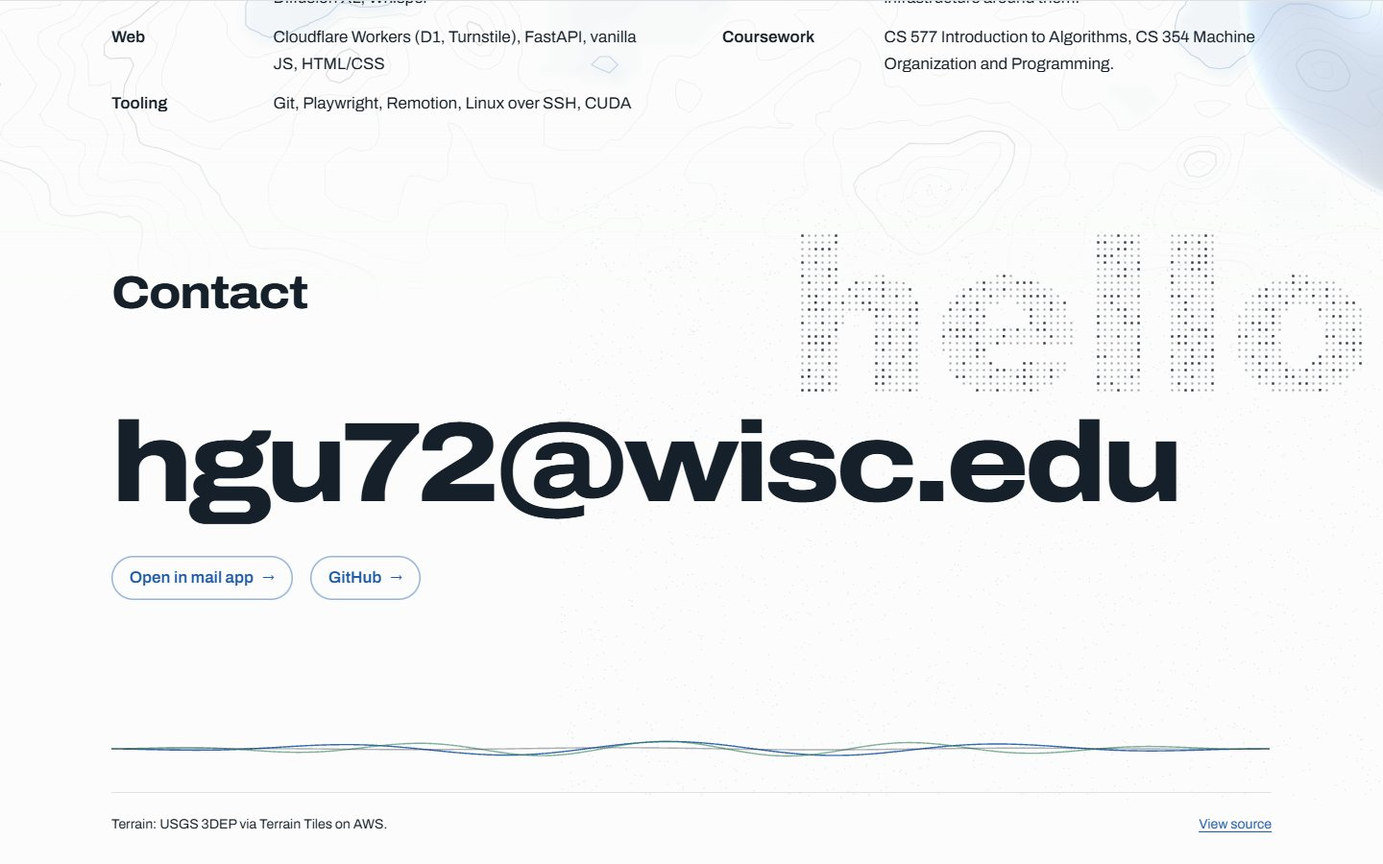
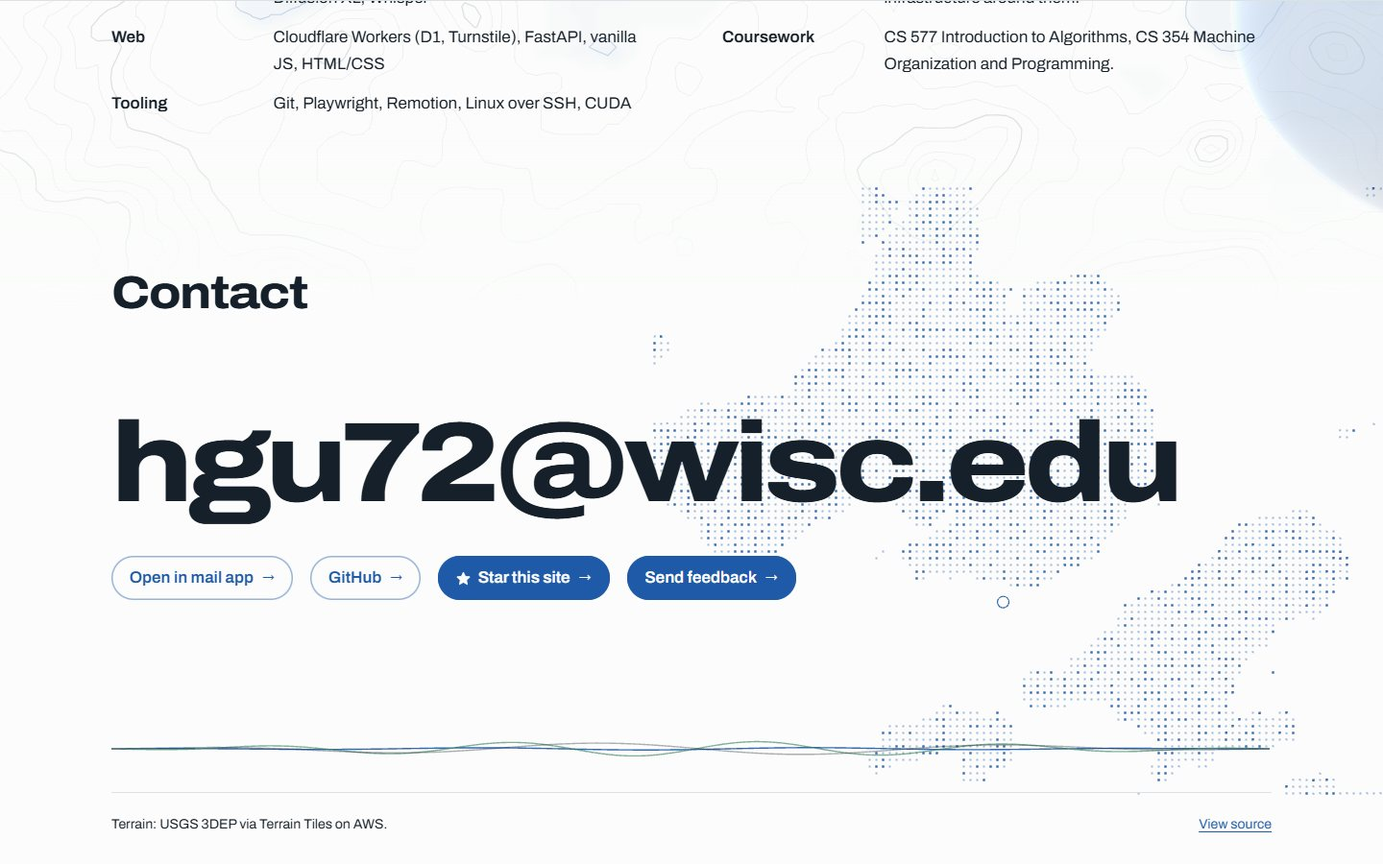
Toolbox section under the hero with Tools nav pill and hero button; filled Star and Feedback asks in Contact; build.py generates the cards

diff --git a/index.html b/index.html
@@ -71,7 +71,9 @@ a:hover{text-decoration-thickness:2px}
 .nav{display:flex; gap:24px; margin:0 0 0 auto; padding:0; list-style:none; font-size:.95rem; font-weight:500}
 .nav a{color:var(--muted); text-decoration:none; padding:6px 0; background:linear-gradient(currentColor,currentColor) left bottom/0 1.5px no-repeat; transition:color .2s, background-size .35s var(--out)}
 .nav a:hover,.nav a[aria-current="true"]{color:var(--ink); background-size:100% 1.5px}
-@media (max-width:640px){ .nav{display:none} .tools{margin-left:auto} }
+.nav li a.go{padding:7px 16px; border-radius:999px; background:var(--accent); color:var(--paper); font-weight:700}
+.nav li a.go:hover,.nav li a.go[aria-current="true"]{background:var(--accent); color:var(--paper); filter:brightness(1.1)}
+@media (max-width:640px){ .nav{margin-left:auto} .nav li:not(.gl){display:none} }
 .tog{display:grid; place-items:center; width:36px; height:36px; border:1px solid var(--rule); border-radius:50%; background:none; color:var(--ink); cursor:pointer; transition:transform .15s var(--out), border-color .2s}
 .tog:hover{border-color:var(--faint)}
 .tog:active{transform:scale(.94)}
@@ -100,6 +102,12 @@ h1{margin:0; font-size:clamp(5rem,17vw,15.5rem); line-height:.8; font-weight:800
 .who{margin:18px 0 0; color:var(--muted); font-size:1.02rem}
 .avail{display:flex; align-items:flex-start; gap:12px; margin:10px 0 0; font-weight:560}
 .avail::before{content:""; flex:none; margin-top:.58em; width:8px; height:8px; border-radius:50%; background:var(--signal); box-shadow:0 0 0 4px color-mix(in srgb, var(--signal) 22%, transparent)}
+.toolgo{margin:26px 0 0}
+.toolgo a{display:inline-flex; align-items:center; gap:.65em; padding:.8em 1.5em; border-radius:999px; background:var(--accent); color:var(--paper); font-weight:700; font-size:1.05rem; text-decoration:none; box-shadow:0 10px 28px -14px rgba(var(--water),.8); transition:transform .25s var(--out), filter .2s}
+.toolgo a::after{content:"\2193"; transition:transform .45s var(--out)}
+.toolgo a:hover{filter:brightness(1.1)}
+.toolgo a:hover::after{transform:translateY(.25em)}
+.toolgo a:active{transform:scale(.97)}
 
 .legend{position:relative; display:flex; flex-wrap:wrap; align-items:flex-end; gap:12px 36px; margin-top:clamp(40px,8vh,88px); padding:14px 0 18px; border-top:1px solid var(--rule); font-size:.84rem; color:var(--muted); font-variant-numeric:tabular-nums}
 .scale{display:flex; flex-direction:column; gap:5px}
@@ -137,6 +145,32 @@ h2{margin:0; font-size:clamp(1.9rem,3.6vw,3rem); line-height:1.02; font-weight:7
   .index a{grid-template-columns:1fr auto}
   .index .ds{grid-column:1/-1; grid-row:2}
   .index .kd{grid-column:2; grid-row:1}
+}
+/* Toolbox: the live web tools straight under the hero (docs/work/*.json with "tool": n) */
+section.tools{padding-top:clamp(56px,8vw,104px)}
+.tbx{margin:0; padding:0; list-style:none; display:grid; grid-template-columns:repeat(auto-fit,minmax(min(100%,224px),1fr)); gap:clamp(14px,1.6vw,22px)}
+.tbx li{display:flex; flex-direction:column; min-width:0; border:1px solid var(--rule); border-radius:16px; overflow:hidden; background:var(--paper); transition:transform .35s var(--out), box-shadow .35s var(--out), border-color .2s}
+@media (hover:hover){ .tbx li:hover{transform:translateY(-4px); border-color:var(--edge); box-shadow:0 18px 40px -26px rgba(var(--line),.55)} .tbx li:hover .tbx-shot img{transform:scale(1.04)} }
+.tbx-shot{display:block; aspect-ratio:16/10; overflow:hidden; background:var(--plate); border-bottom:1px solid var(--rule)}
+.tbx-shot img{display:block; width:100%; height:100%; object-fit:cover; object-position:top left; transition:transform .6s var(--out)}
+.tbx-tx{display:flex; flex-direction:column; flex:1; padding:16px 16px 18px}
+.tbx h3{margin:0; font-size:1.15rem; line-height:1.1; font-weight:760; font-stretch:108%; letter-spacing:-.025em}
+.tbx-ds{margin:8px 0 0; font-size:.95rem; line-height:1.45}
+.tbx-go{display:flex; flex-wrap:wrap; gap:8px; margin:auto 0 0; padding-top:16px}
+.tbx-go a{display:inline-flex; align-items:center; justify-content:center; gap:.45em; min-height:40px; padding:0 1.1em; border-radius:999px; font-weight:650; font-size:.92rem; text-decoration:none; transition:background-color .25s var(--out), color .25s var(--out), box-shadow .25s var(--out), filter .2s}
+.tbx-go .open{background:var(--accent); color:var(--paper); box-shadow:inset 0 0 0 1.5px var(--accent)}
+.tbx-go .open::after{content:"\2197"; transition:transform .35s var(--out)}
+.tbx-go .open:hover{filter:brightness(1.1)}
+.tbx-go .open:hover::after{transform:translate(.15em,-.15em)}
+.tbx-go .star{color:var(--ink); box-shadow:inset 0 0 0 1.5px color-mix(in srgb, var(--ink) 40%, transparent)}
+.tbx-go .star svg{color:#C98A00; flex:none}
+:root[data-theme="dark"] .tbx-go .star svg{color:#F2B632}
+.tbx-go .star:hover{background:color-mix(in srgb, var(--ink) 8%, transparent); box-shadow:inset 0 0 0 1.5px var(--ink)}
+@media (max-width:560px){
+  .tbx{grid-template-columns:minmax(0,1fr)}
+  .tbx li{display:grid; grid-template-columns:minmax(0,2fr) minmax(0,3fr)}
+  .tbx-shot{aspect-ratio:auto; height:100%; border-bottom:0; border-right:1px solid var(--rule)}
+  .tbx-tx{padding:14px 14px 14px}
 }
 /* Smaller projects: compact cards under the deck (docs/work/*.json with "tier": "minor") */
 .minor{margin-top:clamp(56px,7vw,96px)}
@@ -328,6 +362,10 @@ dl.kv dd{margin:0; color:var(--muted)}
 .after a::after{content:"\2192"; transition:transform .45s var(--out)}
 .after a:hover, .after a:focus-visible{background:var(--accent); color:var(--paper); box-shadow:inset 0 0 0 1.5px var(--accent)}
 .after a:hover::after{transform:translateX(.3em)}
+/* The two asks (star, feedback) are filled, so they read as the main actions */
+.after a.hl{background:var(--accent); color:var(--paper); box-shadow:inset 0 0 0 1.5px var(--accent)}
+.after a.hl:hover, .after a.hl:focus-visible{background:var(--ink); color:var(--paper); box-shadow:inset 0 0 0 1.5px var(--ink)}
+.after a.hl svg{flex:none}
 /* WeChat QR, Chinese page only */
 .wx{display:flex; flex-wrap:wrap; align-items:center; gap:18px; margin:32px 0 0}
 .wx img{flex:none; display:block; width:160px; height:160px; border-radius:12px; box-shadow:0 0 0 1px var(--rule)}
@@ -454,13 +492,13 @@ h2{--w:780}
 @media (prefers-reduced-motion:no-preference){
   .js .hero h1 .l{animation:rise 1.2s var(--out) both paused; animation-delay:calc(.15s + var(--i) * 75ms)}
   .js .hero .lede .blk{animation:wipe 1.05s var(--io) .6s both paused}
-  .js .hero .who, .js .hero .avail{animation:flash .9s ease-out both paused; animation-delay:calc(1.05s + var(--i) * 160ms)}
+  .js .hero .who, .js .hero .avail, .js .hero .toolgo{animation:flash .9s ease-out both paused; animation-delay:calc(1.05s + var(--i) * 160ms)}
   .js .hero .avail::before{animation:led 1.2s steps(1) 1.5s both paused}
   .js .legend{animation:show .5s ease-out 1.1s both paused}
   .js .legend .bar-s{animation:grow .9s var(--io) 1.2s both paused}
   .js .legend .note{animation:flash .9s ease-out 1.35s both paused}
   .js .bar{animation:show .8s ease-out 1.05s both paused}
-  .go .hero h1 .l, .go .hero .lede .blk, .go .hero .who, .go .hero .avail, .go .hero .avail::before,
+  .go .hero h1 .l, .go .hero .lede .blk, .go .hero .who, .go .hero .avail, .go .hero .toolgo, .go .hero .avail::before,
   .go .legend, .go .legend .bar-s, .go .legend .note, .go .bar{animation-play-state:running}
   .js [data-dec]:not(.on){color:transparent}
   .js .shead p{opacity:0}
@@ -543,6 +581,7 @@ h2{--w:780}
   <div class="wrap">
     <a class="mark" href="#top">H. Gu</a>
     <ul class="nav" aria-label="Sections">
+      <li class="gl"><a class="go" href="#tools"><span class="en">Tools</span><span class="zh" lang="zh-CN">工具箱</span></a></li>
       <li><a href="#work"><span class="en">Work</span><span class="zh" lang="zh-CN">项目</span></a></li>
       <li><a href="#decisions"><span class="en">Decisions</span><span class="zh" lang="zh-CN">决定</span></a></li>
       <li><a href="#now"><span class="en">Now</span><span class="zh" lang="zh-CN">近况</span></a></li>
@@ -565,11 +604,77 @@ h2{--w:780}
       <p class="lede"><span class="en" data-split="word">I build web tools that turn messy public data into maps, schedules, and scores.</span><span class="zh" lang="zh-CN" data-split="char">我做网页工具，把杂乱的公开数据变成地图、课表和评分。</span></p>
       <p class="who" style="--i:0"><span class="en">Computer Science at UW–Madison, class of 2029.</span><span class="zh" lang="zh-CN">威斯康星大学麦迪逊分校（UW–Madison）计算机科学专业，2029 届。</span></p>
       <p class="avail" style="--i:1"><span class="en">Open to Summer 2027 SWE and ML internships</span><span class="zh" lang="zh-CN">正在寻找 2027 年夏季的软件工程和机器学习实习</span></p>
+      <p class="toolgo" style="--i:2"><a href="#tools"><span class="en">Open the toolbox</span><span class="zh" lang="zh-CN">打开工具箱</span></a></p>
       <div class="legend">
         <div class="scale" aria-hidden="true"><div class="bar-s" id="sbar"><i></i><i></i><i></i><i></i></div><div class="ticks"><span>0</span><span id="shalf"></span><span id="sfull"></span></div></div>
         <span class="note"><svg class="north" viewBox="0 0 18 30" aria-hidden="true"><text x="9" y="8" text-anchor="middle">N</text><path pathLength="1" d="M9 11 L15 29 L9 25 L3 29 Z"/><path class="fill" d="M9 11 L9 25 L3 29 Z"/></svg><span><span class="en">Madison, Wisconsin<br>Contour interval 5 m</span><span class="zh" lang="zh-CN">威斯康星州麦迪逊<br>等高距 5 米</span></span></span>
         <span class="readout" id="readout" aria-live="off"><b id="ro-a" data-dec="manual">Bascom Hill</b><span id="ro-b" data-dec="manual"><span class="ro-ld"><i style="--i:0"></i><i style="--i:1"></i><i style="--i:2"></i></span></span></span>
       </div>
+    </div>
+  </section>
+
+  <section class="block tools" id="tools" aria-labelledby="tools-h">
+    <div class="wrap">
+      <div class="shead"><h2 id="tools-h"><span class="en" data-split="char">Toolbox</span><span class="zh" lang="zh-CN" data-split="char">工具箱</span></h2></div>
+      <ul class="tbx">
+        <!-- work:tools -->
+        <li>
+          <a class="tbx-shot" href="https://webgrs.github.io/datamap/" target="_blank" rel="noopener" tabindex="-1" aria-hidden="true"><img src="assets/datamap.jpg" width="1340" height="838" alt="" loading="lazy" decoding="async"></a>
+          <div class="tbx-tx">
+            <h3>DataMap</h3>
+            <p class="tbx-ds"><span class="en">Paste a column of numbers, get a choropleth</span><span class="zh" lang="zh-CN">粘贴一列数字，得到一张分级统计地图</span></p>
+            <p class="tbx-go">
+              <a class="open" href="https://webgrs.github.io/datamap/" target="_blank" rel="noopener"><span class="en">Open<span class="sr"> DataMap</span></span><span class="zh" lang="zh-CN">打开<span class="sr"> DataMap</span></span></a>
+              <a class="star" href="https://github.com/WEBGRS/datamap" target="_blank" rel="noopener"><svg viewBox="0 0 16 16" width="15" height="15" aria-hidden="true" focusable="false"><path d="M8 1.2l2.1 4.5 4.9.6-3.6 3.4.9 4.9L8 12.2 3.7 14.6l.9-4.9L1 6.3l4.9-.6z" fill="currentColor" stroke="currentColor" stroke-width="1" stroke-linejoin="round"/></svg><span class="en">Star<span class="sr"> DataMap on GitHub</span></span><span class="zh" lang="zh-CN">点星<span class="sr"> DataMap（GitHub）</span></span></a>
+            </p>
+          </div>
+        </li>
+        <li>
+          <a class="tbx-shot" href="https://webgrs.github.io/route-animator/" target="_blank" rel="noopener" tabindex="-1" aria-hidden="true"><img src="assets/route-animator.jpg" width="1000" height="625" alt="" loading="lazy" decoding="async"></a>
+          <div class="tbx-tx">
+            <h3>route-animator</h3>
+            <p class="tbx-ds"><span class="en">Flies a route over a satellite globe and records the video in the browser</span><span class="zh" lang="zh-CN">在卫星地球上飞出一条路线，并直接在浏览器里录成视频</span></p>
+            <p class="tbx-go">
+              <a class="open" href="https://webgrs.github.io/route-animator/" target="_blank" rel="noopener"><span class="en">Open<span class="sr"> route-animator</span></span><span class="zh" lang="zh-CN">打开<span class="sr"> route-animator</span></span></a>
+              <a class="star" href="https://github.com/WEBGRS/route-animator" target="_blank" rel="noopener"><svg viewBox="0 0 16 16" width="15" height="15" aria-hidden="true" focusable="false"><path d="M8 1.2l2.1 4.5 4.9.6-3.6 3.4.9 4.9L8 12.2 3.7 14.6l.9-4.9L1 6.3l4.9-.6z" fill="currentColor" stroke="currentColor" stroke-width="1" stroke-linejoin="round"/></svg><span class="en">Star<span class="sr"> route-animator on GitHub</span></span><span class="zh" lang="zh-CN">点星<span class="sr"> route-animator（GitHub）</span></span></a>
+            </p>
+          </div>
+        </li>
+        <li>
+          <a class="tbx-shot" href="https://webgrs.github.io/uw-course-lookup/" target="_blank" rel="noopener" tabindex="-1" aria-hidden="true"><img src="assets/uw-course-lookup.jpg" width="1400" height="897" alt="" loading="lazy" decoding="async"></a>
+          <div class="tbx-tx">
+            <h3>uw-course-lookup</h3>
+            <p class="tbx-ds"><span class="en">Grades, seats and a degree-aware timetable planner for every Fall 2026 UW–Madison course</span><span class="zh" lang="zh-CN">Fall 2026 全部 UW–Madison 课程的成绩、座位，外加了解你学位要求的课表规划器</span></p>
+            <p class="tbx-go">
+              <a class="open" href="https://webgrs.github.io/uw-course-lookup/" target="_blank" rel="noopener"><span class="en">Open<span class="sr"> uw-course-lookup</span></span><span class="zh" lang="zh-CN">打开<span class="sr"> uw-course-lookup</span></span></a>
+              <a class="star" href="https://github.com/WEBGRS/uw-course-lookup" target="_blank" rel="noopener"><svg viewBox="0 0 16 16" width="15" height="15" aria-hidden="true" focusable="false"><path d="M8 1.2l2.1 4.5 4.9.6-3.6 3.4.9 4.9L8 12.2 3.7 14.6l.9-4.9L1 6.3l4.9-.6z" fill="currentColor" stroke="currentColor" stroke-width="1" stroke-linejoin="round"/></svg><span class="en">Star<span class="sr"> uw-course-lookup on GitHub</span></span><span class="zh" lang="zh-CN">点星<span class="sr"> uw-course-lookup（GitHub）</span></span></a>
+            </p>
+          </div>
+        </li>
+        <li>
+          <a class="tbx-shot" href="https://webgrs.github.io/madison-rentals/" target="_blank" rel="noopener" tabindex="-1" aria-hidden="true"><img src="assets/madison-rentals.jpg" width="1400" height="875" alt="" loading="lazy" decoding="async"></a>
+          <div class="tbx-tx">
+            <h3>Isthmus Rentals</h3>
+            <p class="tbx-ds"><span class="en">Every rental near campus on one map, each value labeled with where it came from</span><span class="zh" lang="zh-CN">校园周边的租房信息都在一张地图上，每个数值都标明来源</span></p>
+            <p class="tbx-go">
+              <a class="open" href="https://webgrs.github.io/madison-rentals/" target="_blank" rel="noopener"><span class="en">Open<span class="sr"> Isthmus Rentals</span></span><span class="zh" lang="zh-CN">打开<span class="sr"> Isthmus Rentals</span></span></a>
+              <a class="star" href="https://github.com/WEBGRS/madison-rentals" target="_blank" rel="noopener"><svg viewBox="0 0 16 16" width="15" height="15" aria-hidden="true" focusable="false"><path d="M8 1.2l2.1 4.5 4.9.6-3.6 3.4.9 4.9L8 12.2 3.7 14.6l.9-4.9L1 6.3l4.9-.6z" fill="currentColor" stroke="currentColor" stroke-width="1" stroke-linejoin="round"/></svg><span class="en">Star<span class="sr"> Isthmus Rentals on GitHub</span></span><span class="zh" lang="zh-CN">点星<span class="sr"> Isthmus Rentals（GitHub）</span></span></a>
+            </p>
+          </div>
+        </li>
+        <li>
+          <a class="tbx-shot" href="https://webgrs.github.io/madison-food-map/" target="_blank" rel="noopener" tabindex="-1" aria-hidden="true"><img src="assets/madison-food-map.jpg" width="1400" height="875" alt="" loading="lazy" decoding="async"></a>
+          <div class="tbx-tx">
+            <h3>Madison Eats</h3>
+            <p class="tbx-ds"><span class="en">Every place to eat in Dane County on one map, scored from six rating sources</span><span class="zh" lang="zh-CN">戴恩县所有能吃饭的地方放在一张地图上，按六个评分来源打分</span></p>
+            <p class="tbx-go">
+              <a class="open" href="https://webgrs.github.io/madison-food-map/" target="_blank" rel="noopener"><span class="en">Open<span class="sr"> Madison Eats</span></span><span class="zh" lang="zh-CN">打开<span class="sr"> Madison Eats</span></span></a>
+              <a class="star" href="https://github.com/WEBGRS/madison-food-map" target="_blank" rel="noopener"><svg viewBox="0 0 16 16" width="15" height="15" aria-hidden="true" focusable="false"><path d="M8 1.2l2.1 4.5 4.9.6-3.6 3.4.9 4.9L8 12.2 3.7 14.6l.9-4.9L1 6.3l4.9-.6z" fill="currentColor" stroke="currentColor" stroke-width="1" stroke-linejoin="round"/></svg><span class="en">Star<span class="sr"> Madison Eats on GitHub</span></span><span class="zh" lang="zh-CN">点星<span class="sr"> Madison Eats（GitHub）</span></span></a>
+            </p>
+          </div>
+        </li>
+        <!-- /work:tools -->
+      </ul>
     </div>
   </section>
 
@@ -1605,7 +1710,7 @@ h2{--w:780}
       <h2 id="contact-h"><span class="en" data-split="char">Contact</span><span class="zh" lang="zh-CN" data-split="char">联系</span></h2>
       <button class="big" id="mail" type="button" data-mail="hgu72@wisc.edu"><span data-split="drop">hgu72@wisc.edu</span></button>
       <p class="sr" id="mail-status" role="status"></p>
-      <div class="after"><a href="mailto:hgu72@wisc.edu" data-mag=".05"><span class="en">Open in mail app</span><span class="zh" lang="zh-CN">用邮件应用打开</span></a><a href="https://github.com/WEBGRS" target="_blank" rel="noopener" data-mag=".05">GitHub</a><a href="#contact" data-feedback data-mag=".05"><span class="en">Send feedback</span><span class="zh" lang="zh-CN">发送反馈</span></a></div>
+      <div class="after"><a href="mailto:hgu72@wisc.edu" data-mag=".05"><span class="en">Open in mail app</span><span class="zh" lang="zh-CN">用邮件应用打开</span></a><a href="https://github.com/WEBGRS" target="_blank" rel="noopener" data-mag=".05">GitHub</a><a class="hl" href="https://github.com/WEBGRS/webgrs.github.io" target="_blank" rel="noopener" data-mag=".05"><svg viewBox="0 0 16 16" width="15" height="15" aria-hidden="true" focusable="false"><path d="M8 1.2l2.1 4.5 4.9.6-3.6 3.4.9 4.9L8 12.2 3.7 14.6l.9-4.9L1 6.3l4.9-.6z" fill="currentColor" stroke="currentColor" stroke-width="1" stroke-linejoin="round"/></svg><span class="en">Star this site</span><span class="zh" lang="zh-CN">给本站点星</span></a><a class="hl" href="#contact" data-feedback data-mag=".05"><span class="en">Send feedback</span><span class="zh" lang="zh-CN">发送反馈</span></a></div>
       <figure class="wx zh" lang="zh-CN"><img src="assets/wechat-qr.png" width="160" height="160" alt="微信二维码" loading="lazy" decoding="async"><figcaption><span>有类似的需求都可以找我做哟～<br>网页、地图、浏览器插件、数据整理、各种小工具什么的都行 <span class="k">ヾ(≧▽≦*)o</span></span></figcaption></figure>
       <canvas class="sine" id="sine" aria-hidden="true"></canvas>
       <footer>
@@ -1829,7 +1934,7 @@ const navLinks = [...document.querySelectorAll('.nav a')];
 const spy = new IntersectionObserver((es) => es.forEach(e => {
   if (e.isIntersecting) navLinks.forEach(a => a.setAttribute('aria-current', a.hash === '#' + e.target.id ? 'true' : 'false'));
 }), { rootMargin: '-40% 0px -55% 0px' });
-['work', 'decisions', 'now', 'contact'].forEach(id => spy.observe(document.getElementById(id)));
+['tools', 'work', 'decisions', 'now', 'contact'].forEach(id => spy.observe(document.getElementById(id)));
 
 // Frame-rate independent damping (after Lenis)
 const damp = (x, y, lambda, dt) => x + (y - x) * (1 - Math.exp(-lambda * dt));
@@ -2273,7 +2378,7 @@ const terrain = (() => {
     const c = mapEl.getBoundingClientRect();
     // Measure the name at its final width, not mid-animation
     root.classList.add('measuring');
-    boxes = [...hero.querySelectorAll('.mask, .lede, .who, .avail, .legend')].map(el => {
+    boxes = [...hero.querySelectorAll('.mask, .lede, .who, .avail, .toolgo, .legend')].map(el => {
       const rg = document.createRange(); rg.selectNodeContents(el);
       const t = rg.getBoundingClientRect(), b = el.getBoundingClientRect();
       return { l: t.left - c.left - 16, r: t.right - c.left + 16, t: b.top - c.top - 12, b: b.bottom - c.top + 12 };
@@ -3375,7 +3480,7 @@ void main(){
   mq.addEventListener('change', () => root.classList.toggle('mm', mq.matches));
   const bar = document.createElement('i'); bar.className = 'prog'; bar.setAttribute('aria-hidden', 'true'); document.body.append(bar);
   const full = film_live();
-  const sel = ['.index li', '.mini li', ...(full ? [] : ['.cap [data-k]', '.cap h3']), '.dec', 'dl.kv dt', 'dl.kv dd', '#contact .wrap > p:not(.sr)', '#contact .after', '#contact .wx'];
+  const sel = ['.tbx li', '.index li', '.mini li', ...(full ? [] : ['.cap [data-k]', '.cap h3']), '.dec', 'dl.kv dt', 'dl.kv dd', '#contact .wrap > p:not(.sr)', '#contact .after', '#contact .wx'];
   const els = [...document.querySelectorAll(sel.join(','))].filter(el => !el.closest('.hero'));
   els.forEach(el => el.classList.add(el.matches('.cap h3') ? 'mvh' : 'mv'));
   const io = new IntersectionObserver((es) => {

diff --git a/assets/feedback.js b/assets/feedback.js
@@ -7,6 +7,10 @@
    data-float-below  below this width (px) hide that button and show a round floating one instead (crowded phone headers)
    data-float-bottom distance of the floating button from the bottom (px, default 16)
    data-lang     auto (follows <html lang>) | en | zh | bi
+   data-star     GitHub repo ("WEBGRS/datamap" or a URL): shows a fixed two-part pill, "Star on GitHub | Feedback", instead
+                 of the mounted button; data-float-bottom sets its height, data-float-bottom-narrow does so under data-narrow-max (default 520) px,
+                 data-dock-side="left" moves it. The page can set --wgfb-lift (px, raises it), --wgfb-display (none hides it)
+                 and --wgfb-dock-z (stacking) on :root or <body> to stay clear of its own bars and drawers
    Any element with [data-feedback] also opens the form. With neither, a small floating button is shown.
    Nothing is loaded until the form opens; the Turnstile human check runs only then. */
 (function () {
@@ -29,9 +33,13 @@
     quota: ['Too many messages today. Try again tomorrow.', '今天发得太多了，明天再试。'],
     fail: ["Couldn't send. Check the connection and try again.", '没发出去，检查网络后再试一次。'],
     close: ['Close', '关闭'],
+    star: ['Star on GitHub', '在 GitHub 点星'],
+    starShort: ['Star', '点星'],
+    starTitle: ['Star this project on GitHub (opens in a new tab)', '在 GitHub 上给这个项目点星（新标签页打开）'],
   };
   // Shorter strings where both languages are shown side by side
-  var BI = { msg: '哪里有问题或可以更好？ What could be better?', contact: '邮箱或微信（选填） Email (optional)' };
+  var BI = { msg: '哪里有问题或可以更好？ What could be better?', contact: '邮箱或微信（选填） Email (optional)', star: 'Star 点星', starShort: 'Star', trigger: '反馈 Feedback' };
+  var STAR = '<svg viewBox="0 0 16 16" width="15" height="15" aria-hidden="true" focusable="false"><path d="M8 1.2l2.1 4.5 4.9.6-3.6 3.4.9 4.9L8 12.2 3.7 14.6l.9-4.9L1 6.3l4.9-.6z" fill="currentColor" stroke="currentColor" stroke-width="1" stroke-linejoin="round"/></svg>';
   var ICON = '<svg viewBox="0 0 16 16" width="14" height="14" aria-hidden="true" focusable="false"><path d="M2.5 3.25h11v7.5H8l-3.25 2.5v-2.5H2.5z" fill="none" stroke="currentColor" stroke-width="1.5" stroke-linejoin="round"/></svg>';
 
   function lang() {
@@ -129,6 +137,17 @@
     '.fab{position:fixed;right:16px;bottom:16px;z-index:2147482999;display:inline-flex;align-items:center;gap:6px;padding:8px 14px;border-radius:999px;',
     'font:600 13px/1 system-ui,-apple-system,"Segoe UI",sans-serif;cursor:pointer;background:var(--ink);color:var(--bg);border:0;box-shadow:0 4px 16px rgba(0,0,0,.2)}',
     '.fab.round{width:44px;height:44px;padding:0;justify-content:center}.fab.round svg{width:18px;height:18px}',
+    '.dock{position:fixed;right:16px;bottom:16px;z-index:var(--wgfb-dock-z,2147482999);display:var(--wgfb-display,inline-flex);align-items:stretch;border-radius:999px;overflow:hidden;',
+    'background:var(--bg);color:var(--ink);border:1.5px solid var(--ink);box-shadow:0 8px 26px rgba(0,0,0,.26),0 1px 3px rgba(0,0,0,.14);',
+    'font:600 14px/1 system-ui,-apple-system,"Segoe UI","PingFang SC","Microsoft YaHei",sans-serif;letter-spacing:normal;text-transform:none}',
+    '.dock a,.dock button{display:inline-flex;align-items:center;gap:7px;margin:0;padding:12px 16px;border:0;font:inherit;color:inherit;background:transparent;cursor:pointer;text-decoration:none;white-space:nowrap}',
+    '.dock .star{color:var(--ink)}.dock .star svg{color:#f2a900}',
+    '.dock .fb{background:var(--ink);color:var(--bg)}',
+    '.dock .star:hover{background:var(--wash)}.dock .fb:hover{opacity:.86}',
+    '.dock a:focus-visible,.dock button:focus-visible{outline:2px solid #f2a900;outline-offset:-4px}',
+    '.dock .short{display:none}',
+    '@media (max-width:520px){.dock{right:10px}.dock a,.dock button{padding:11px 13px}.dock .long{display:none}.dock .short{display:inline}}',
+    '@media print{.dock,.fab{display:none}}',
     '@media (prefers-reduced-motion:reduce){.panel{transition:none}}',
   ].join('');
 
@@ -306,6 +325,8 @@
     var triggers = [];
     var below = +ds.floatBelow;
     var mount = ds.mount && document.querySelector(ds.mount);
+    var dock = null;
+    if (ds.star) { mount = null; below = 0; }
     if (mount) {
       var b = makeButton();
       if (below) b.classList.add('wgfb-mounted');
@@ -320,7 +341,27 @@
       e.preventDefault();
       if (isOpen && opener === el) close(); else open(el);
     });
-    if ((!mount && !document.querySelector('[data-feedback]')) || (mount && below)) {
+    if (ds.star) {
+      // Fixed pill: gold star link on the left, filled Feedback button on the right
+      build();
+      var url = /^https?:/.test(ds.star) ? ds.star : 'https://github.com/' + ds.star.replace(/^\/+/, '');
+      dock = document.createElement('div');
+      dock.className = 'dock';
+      var lift = function (px) { return 'calc(' + px + 'px + var(--wgfb-lift,0px) + env(safe-area-inset-bottom))'; };
+      dock.style.bottom = lift(+ds.floatBottom || 16);
+      if (+ds.floatBottomNarrow) {
+        var nb = document.createElement('style');
+        nb.textContent = '@media (max-width:' + (+ds.narrowMax || 520) + 'px){.dock{bottom:' + lift(+ds.floatBottomNarrow) + '!important}}';
+        root.appendChild(nb);
+      }
+      if (ds.dockSide === 'left') { dock.style.left = '16px'; dock.style.right = 'auto'; }
+      dock.innerHTML = '<a class="star" target="_blank" rel="noopener">' + STAR + '<span class="long"></span><span class="short"></span></a>' +
+        '<button type="button" class="fb" aria-haspopup="dialog" aria-expanded="false">' + ICON + '<span class="fbl"></span></button>';
+      dock.querySelector('.star').href = url;
+      var fbBtn = dock.querySelector('.fb');
+      fbBtn.addEventListener('click', function () { if (isOpen && opener === fbBtn) close(); else open(fbBtn); });
+      root.appendChild(dock);
+    } else if ((!mount && !document.querySelector('[data-feedback]')) || (mount && below)) {
       // Floating button inside the shadow root: always, or only on narrow screens when the header has no room
       build();
       fab = document.createElement('button');
@@ -339,6 +380,17 @@
     }
     function relabel() {
       triggers.forEach(label);
+      if (dock) {
+        var sa = dock.querySelector('.star');
+        dock.querySelector('.long').textContent = t('star');
+        dock.querySelector('.short').textContent = t('starShort');
+        sa.title = t('starTitle');
+        sa.setAttribute('aria-label', t('star') + ' - ' + t('starTitle'));
+        dock.querySelector('.fbl').textContent = t('trigger');
+        dock.querySelector('.fb').title = t('title');
+        dock.classList.remove('light', 'dark');
+        dock.classList.add(dark() ? 'dark' : 'light');
+      }
       texts();
       if (fab) { fab.classList.remove('light', 'dark'); fab.classList.add(dark() ? 'dark' : 'light'); }
     }

diff --git a/docs/build.py b/docs/build.py
@@ -1,6 +1,8 @@
 # Build the Selected work section from docs/work/*.json and write it into index.html and README.md.
 #   python docs/build.py            write the regions
 #   python docs/build.py --check    exit 1 if a file is out of date (nothing is written)
+# "tool": N on a project puts it in the Toolbox under the hero (N = position); it needs a Live site link, a GitHub
+# Source link and a screenshot.
 # Each region sits between <!-- work:NAME --> and <!-- /work:NAME -->; everything else is hand-written.
 # Every project has an English file (<slug>.json) and a Chinese one (<slug>.zh.json). The page carries both; CSS shows
 # the one that matches <html lang>. Figures are drawn once per language (strings in work/_figs.zh.json).
@@ -41,6 +43,12 @@ def load():
         for _, href in d["links"]:
             if not href.startswith("https://"):
                 die(f"{f.name}: link {href!r} must be https")
+        if d.get("tool"):
+            ln = dict(d["links"])
+            if "Live site" not in ln or not ln.get("Source", "").startswith("https://github.com/"):
+                die(f"{f.name}: a tool needs a 'Live site' link and a GitHub 'Source' link")
+            if "shot" not in d:
+                die(f"{f.name}: a tool needs a 'shot'")
         if d["tier"] == "major" and not d["links"]:
             die(f"{f.name}: a major project needs at least one link")
         # A project nobody can open (private repository, local only) says so instead of linking
@@ -140,6 +148,35 @@ def index_entries(specs):
     for i, d in enumerate(feat):
         out.append(f'        <li><a href="#{d["slug"]}" data-i="{i}"><span class="nm">{esc(d["name"])}</span>'
                    f'<span class="ds">{L(d["summary"], d["zh"]["summary"])}</span><span class="kd">{L(esc(d["kind"]), esc(d["zh"]["kind"]))}</span></a></li>')
+    return "\n".join(out)
+
+
+STAR_SVG = ('<svg viewBox="0 0 16 16" width="15" height="15" aria-hidden="true" focusable="false"><path d="M8 1.2l2.1 4.5 4.9.6-3.6 3.4.9 4.9L8 12.2 3.7 14.6l.9-4.9L1 6.3l4.9-.6z" '
+            'fill="currentColor" stroke="currentColor" stroke-width="1" stroke-linejoin="round"/></svg>')
+
+
+def tool_cards(specs):
+    """Toolbox: one card per live web tool, a thumbnail, one line, and two links (open it, star its repository)."""
+    tools = sorted((d for d in specs if d.get("tool")), key=lambda d: d["tool"])
+    out = []
+    for d in tools:
+        ln = dict(d["links"])
+        live, src = ln["Live site"], ln["Source"]
+        sh, name = d["shot"], esc(d["name"])
+        img = f'<img src="{attr(sh["src"])}" width="{sh["w"]}" height="{sh["h"]}" alt="" loading="lazy" decoding="async">'
+        out.append("        <li>")
+        out.append(f'          <a class="tbx-shot" href="{attr(live)}" target="_blank" rel="noopener" tabindex="-1" aria-hidden="true">{img}</a>')
+        out.append('          <div class="tbx-tx">')
+        out.append(f"            <h3>{name}</h3>")
+        out.append(f'            <p class="tbx-ds">{L(d["summary"], d["zh"]["summary"])}</p>')
+        out.append('            <p class="tbx-go">')
+        out.append(f'              <a class="open" href="{attr(live)}" target="_blank" rel="noopener">'
+                   f'<span class="en">Open<span class="sr"> {name}</span></span><span class="zh" lang="zh-CN">打开<span class="sr"> {name}</span></span></a>')
+        out.append(f'              <a class="star" href="{attr(src)}" target="_blank" rel="noopener">{STAR_SVG}'
+                   f'<span class="en">Star<span class="sr"> {name} on GitHub</span></span><span class="zh" lang="zh-CN">点星<span class="sr"> {name}（GitHub）</span></span></a>')
+        out.append("            </p>")
+        out.append("          </div>")
+        out.append("        </li>")
     return "\n".join(out)
 
 
@@ -305,6 +342,7 @@ def main():
     s = splice(s, "index", index_entries(specs))
     s = splice(s, "caps", caps(specs))
     s = splice(s, "minor", minor_block(specs))
+    s = splice(s, "tools", tool_cards(specs))
     s = splice(s, "stack", stack_data(specs))
     s = splice(s, "sr", sr_sentence(specs), inline=True)
     r = readme.read_text(encoding="utf-8")
